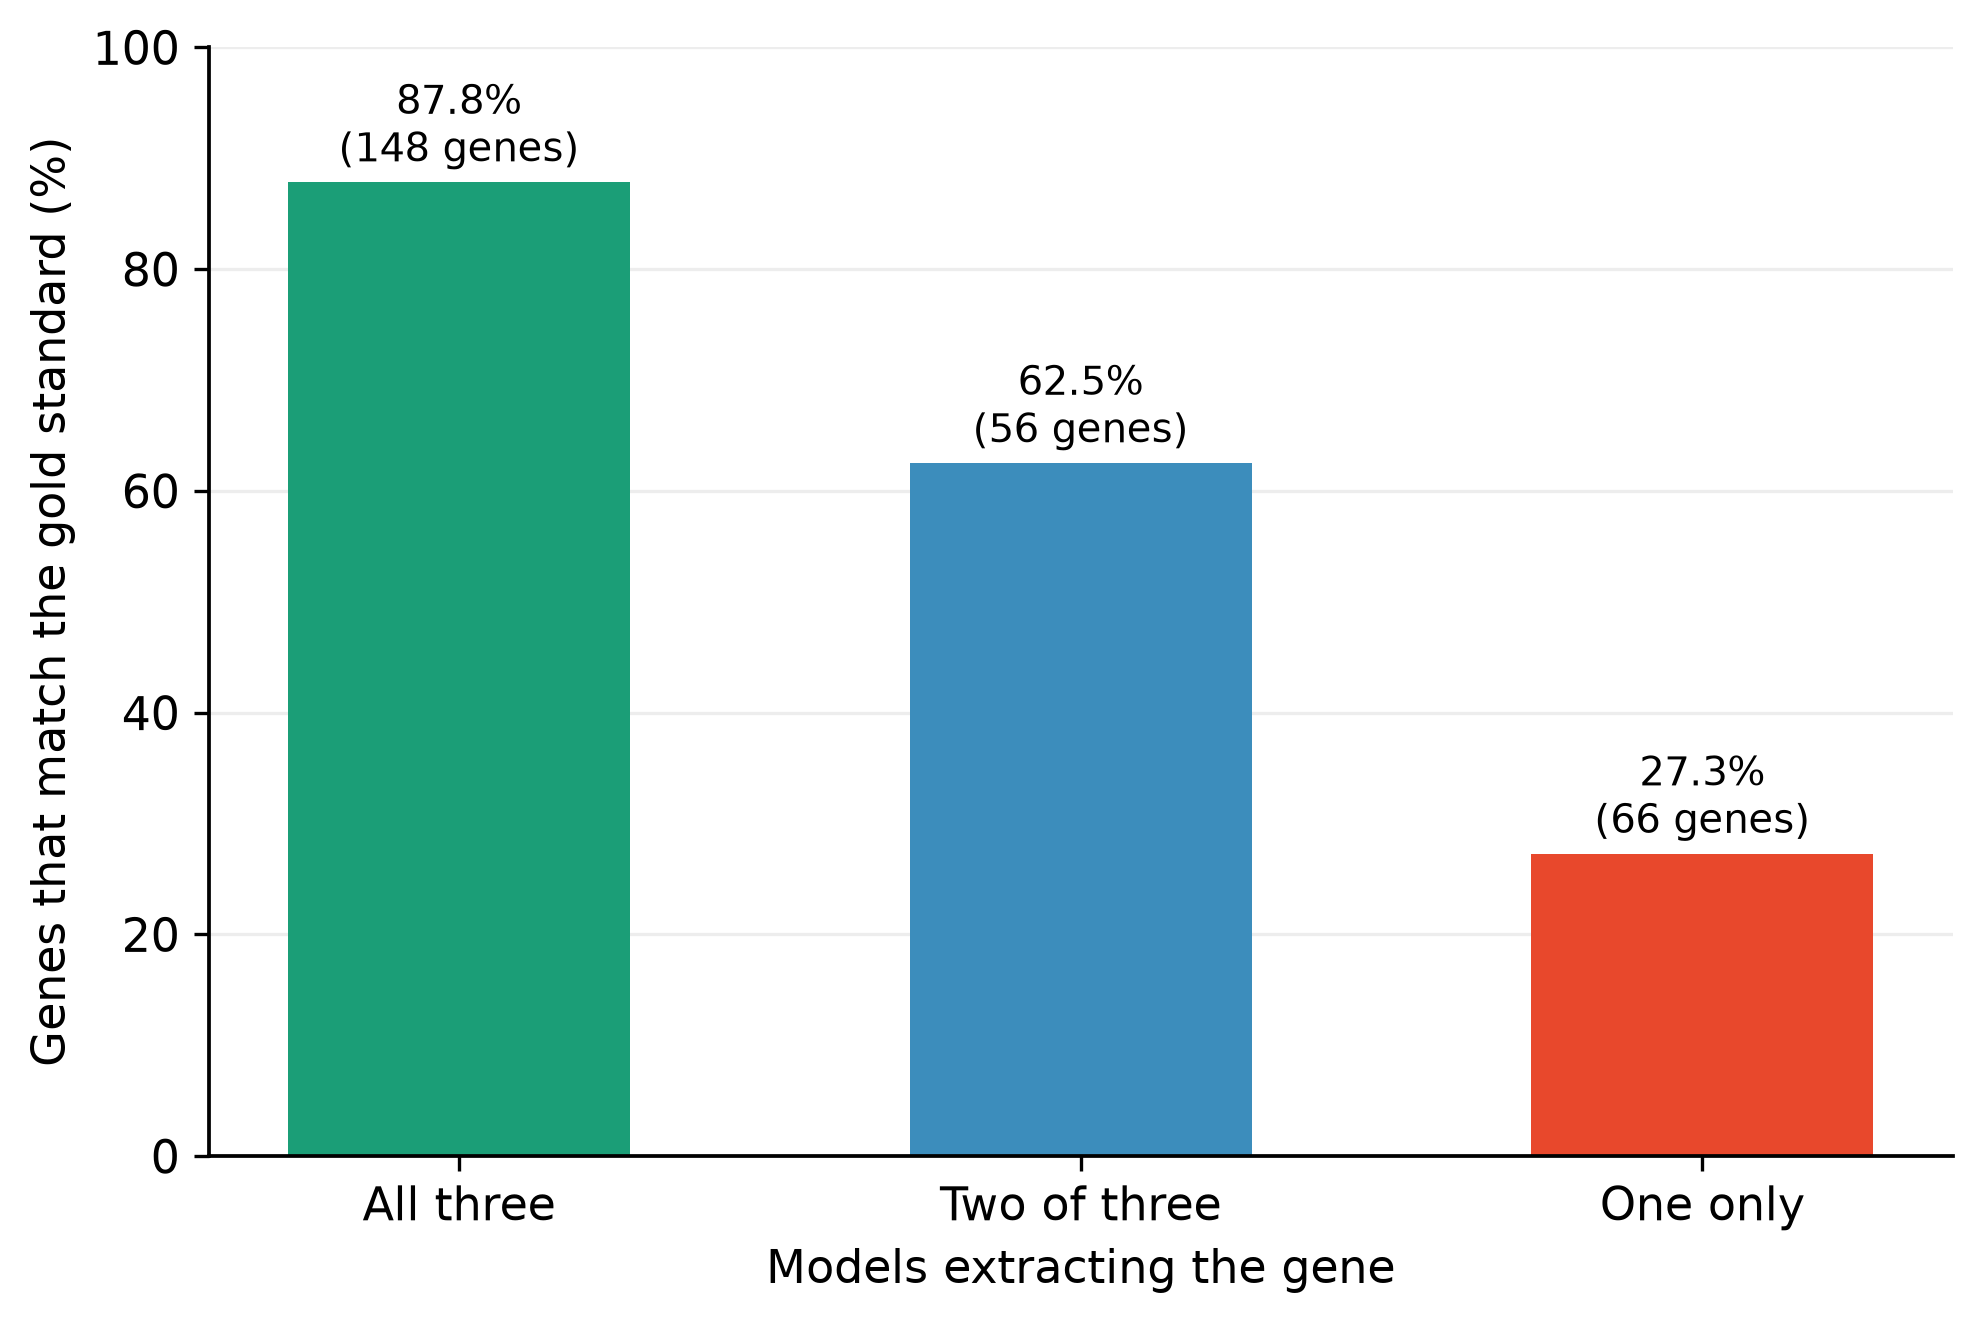
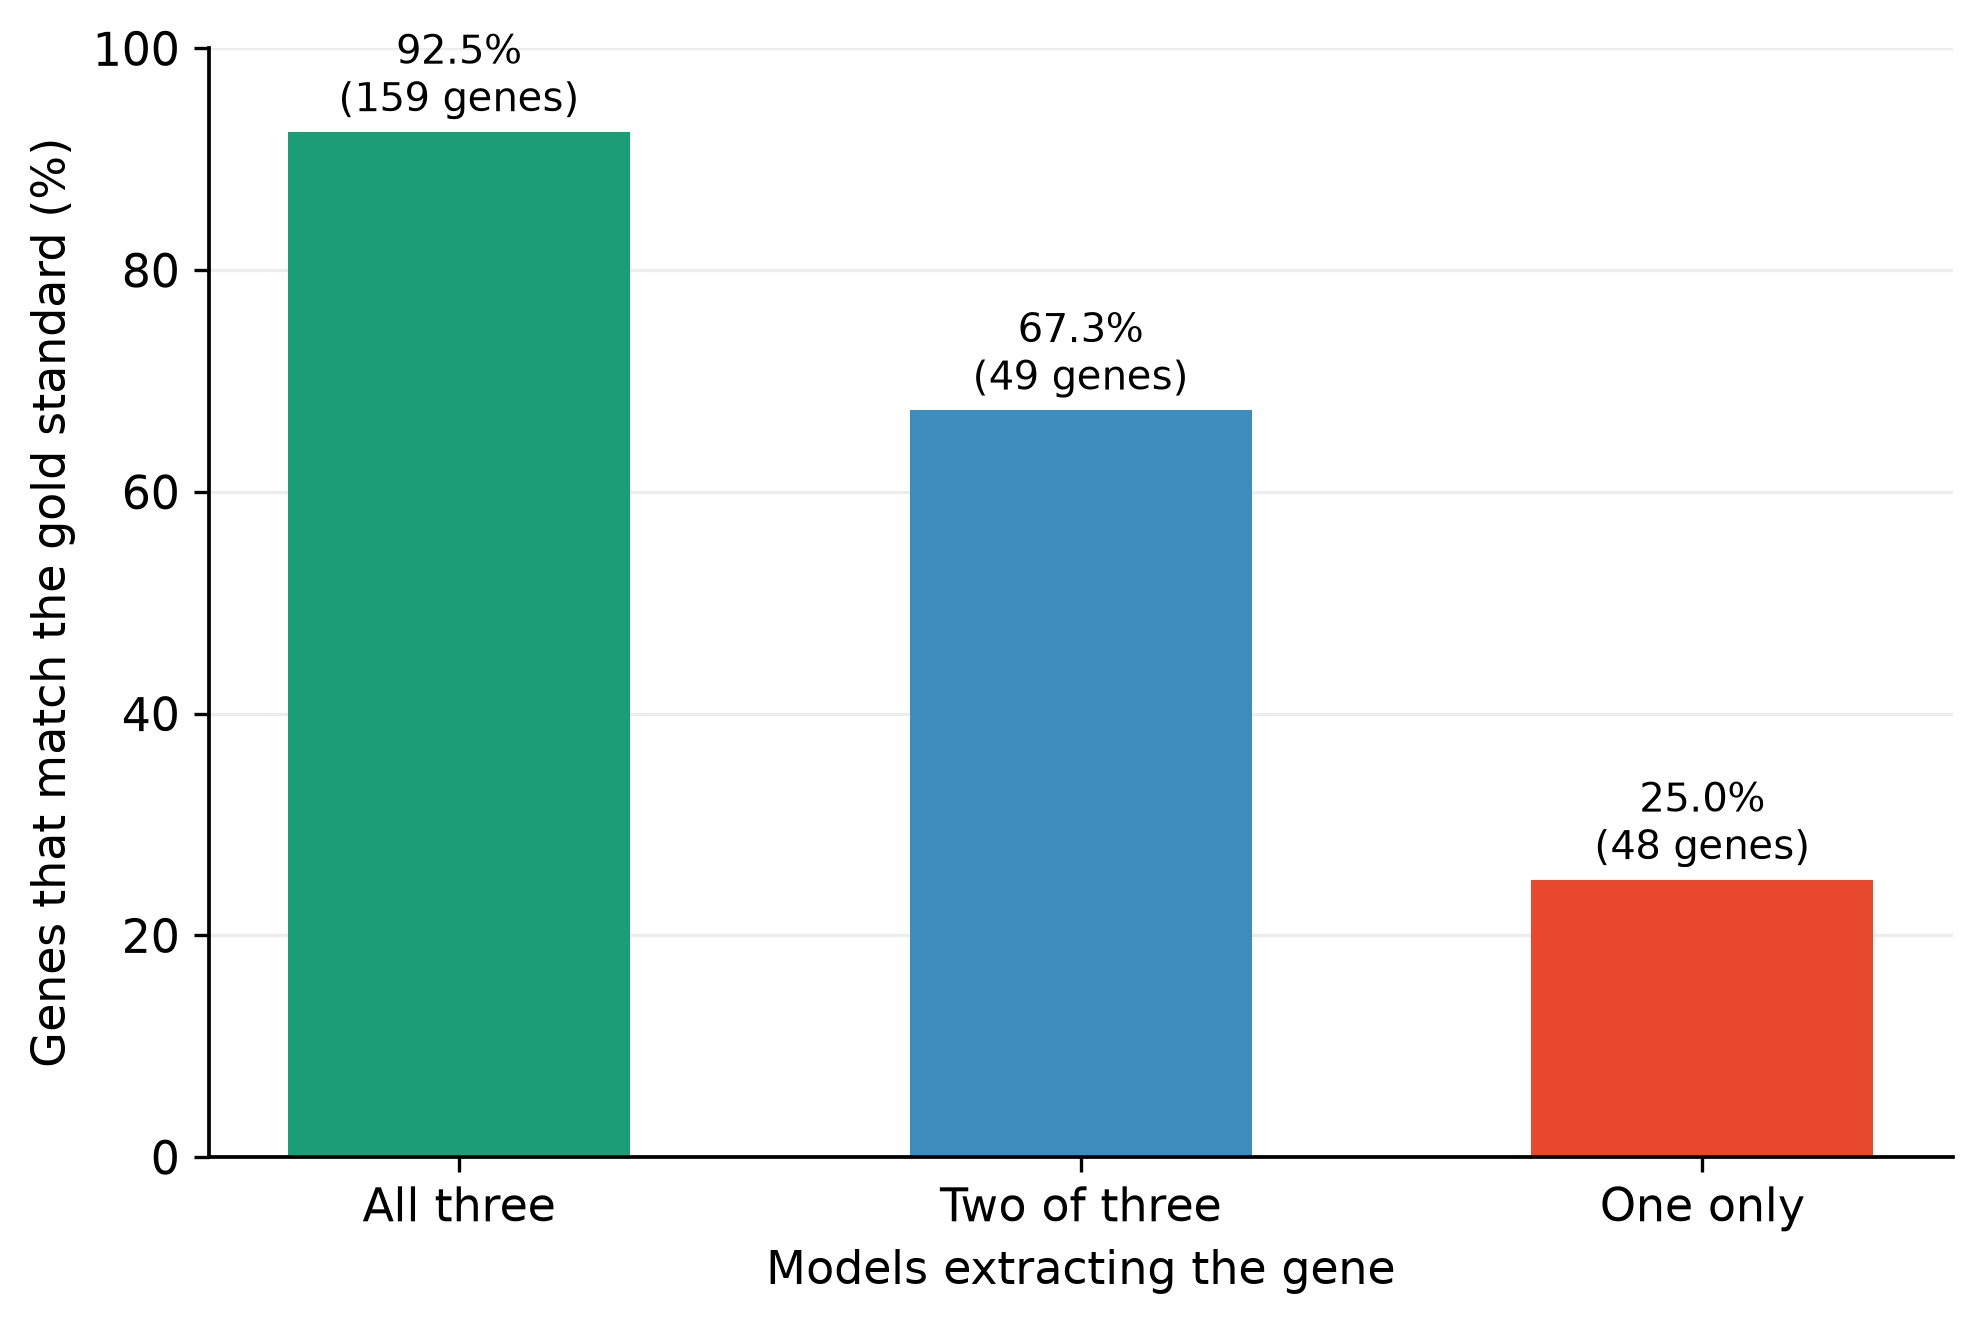
Update consensus figures with revised normalisation and Qwen v6 full

diff --git a/figures/README.md b/figures/README.md
@@ -58,3 +58,17 @@ do not dominate. Jobs were scheduled across three GPU classes on the cluster
 figures indicate relative cost rather than a controlled benchmark. Gemma-4-12B
 ran on the fastest available hardware and was still the slowest configuration
 tested.
+
+## Consensus (revised normalisation)
+
+| File | Contents |
+|---|---|
+| `consensus_ladder.png` | Proportion of extracted genes matching the gold standard, grouped by how many of the three models extracted that gene |
+| `consensus_scores.png` | Precision, recall and F1 for each single model and each consensus rule |
+
+Three models contribute: Magistral-Small and Gemma-4-12B on the full v6 prompt,
+and Qwen3-8B on v6 full. All outputs are scored after the revised HGNC
+normalisation, so these figures are comparable with the main results tables.
+The ladder panel is not a measure of the consensus rules themselves — it asks
+how often an individual extracted gene is correct given the number of models
+that agreed on it.
